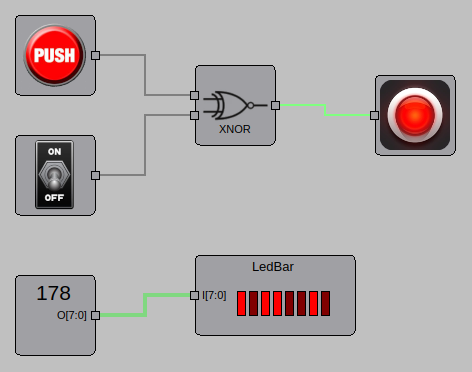
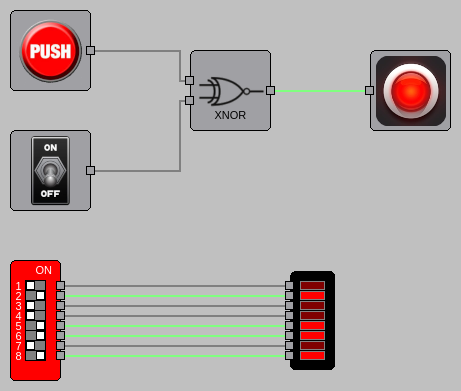
Make the LED bar a column with one input for each LED
The LED bar only took a bus, so it couldn't show single wires, and it
didn't line up with the DIP switch. Now its LEDs are next to their inputs,
as far apart as the switches, so they can be wired straight across.

Changed region(s): [[0.0, 0.0, 1.0, 0.5914], [0.0, 0.6505, 0.7592, 0.9758]]

diff --git a/src/digsim/app/gui_objects/_led_bar_object.py b/src/digsim/app/gui_objects/_led_bar_object.py
@@ -1,4 +1,4 @@
-# Copyright (c) Fredrik Andersson, 2023-2025
+# Copyright (c) Fredrik Andersson, 2023-2026
 # All rights reserved
 
 """A LED bar component placed in the GUI"""
@@ -21,16 +21,22 @@ if TYPE_CHECKING:
 
 
 class LedBarObject(ComponentObject):
-    """The class for a LED bar component placed in the GUI"""
+    """The class for a LED bar component placed in the GUI, drawn like a DIP switch"""
 
-    LED_WIDTH = 8
-    LED_HEIGHT = 24
-    LED_GAP = 4
+    SHOW_PORT_NAMES = False
+    LED_WIDTH = 24
+    LED_HEIGHT = 8
+    # From one LED to the next, and from one input to the next
+    LED_DISTANCE = 10
+    # The frame around the LEDs
+    FRAME = 10
+    # From the top to the first input, the frame and half an LED
+    BORDER_TO_PORT = FRAME + LED_HEIGHT // 2
 
     def __init__(
         self, app_model: AppModel, component: Component, xpos: float, ypos: float
     ) -> None:
-        super().__init__(app_model, component, xpos, ypos)
+        super().__init__(app_model, component, xpos, ypos, port_distance=self.LED_DISTANCE)
         self.update_size()
 
     @property
@@ -41,29 +47,41 @@ class LedBarObject(ComponentObject):
 
     def update_size(self) -> None:
         leds = len(self.component.lit())
-        self.width = 2 * self.inport_x_pos() + 40 + leds * (self.LED_WIDTH + self.LED_GAP)
+        self.width = self.LED_WIDTH + 2 * self.FRAME
+        self.height = (leds - 1) * self.LED_DISTANCE + 2 * self.BORDER_TO_PORT
         self.update_ports()
 
     def paint_component(self, painter: QPainter) -> None:
-        self.paint_component_base(painter)
-        self.paint_component_name(painter)
-        # Draw the most significant bit to the left
-        xpos = int(self.object_pos.x() + self.inport_x_pos() + 30)
-        ypos = int(self.object_pos.y() + self.height / 2 - self.LED_HEIGHT / 2 + 8)
-        for led_on in reversed(self.component.lit()):
+        self.paint_component_base(painter, color=Qt.GlobalColor.black)
+        # Each LED next to its input, LED 0 at the top
+        xpos = int(self.object_pos.x() + self.width / 2 - self.LED_WIDTH / 2)
+        ypos = int(self.object_pos.y() + self.BORDER_TO_PORT - self.LED_HEIGHT / 2)
+        for led_on in self.component.lit():
             self._paint_led(painter, xpos, ypos, led_on)
-            xpos += self.LED_WIDTH + self.LED_GAP
+            ypos += self.LED_DISTANCE
 
     @classmethod
     def _paint_led(cls, painter: QPainter, xpos: int, ypos: int, led_on: bool) -> None:
-        painter.setPen(Qt.GlobalColor.black)
+        painter.setPen(Qt.GlobalColor.darkGray)
         painter.setBrush(Qt.GlobalColor.red if led_on else Qt.GlobalColor.darkRed)
         painter.drawRect(xpos, ypos, cls.LED_WIDTH, cls.LED_HEIGHT)
 
     @classmethod
     def paint_selectable_component(cls, painter: QPainter, size: QSize, name: str) -> None:
-        xpos = (size.width() - 6 * (cls.LED_WIDTH + cls.LED_GAP)) // 2
-        for led_on in [True, False, True, True, False, False]:
-            cls._paint_led(painter, xpos, 20, led_on)
-            xpos += cls.LED_WIDTH + cls.LED_GAP
+        leds = [True, False, True, True, False, False]
+        xpos = (size.width() - cls.LED_WIDTH) // 2
+        ypos = (size.width() - len(leds) * cls.LED_DISTANCE) // 2
+        painter.setPen(Qt.GlobalColor.black)
+        painter.setBrush(Qt.GlobalColor.black)
+        painter.drawRoundedRect(
+            xpos - cls.FRAME,
+            ypos - cls.FRAME,
+            cls.LED_WIDTH + 2 * cls.FRAME,
+            (len(leds) - 1) * cls.LED_DISTANCE + cls.LED_HEIGHT + 2 * cls.FRAME,
+            5,
+            5,
+        )
+        for led_on in leds:
+            cls._paint_led(painter, xpos, ypos, led_on)
+            ypos += cls.LED_DISTANCE
         cls.paint_selectable_component_name(painter, QPoint(0, 0), size, name)

diff --git a/tests/test_led_bar.py b/tests/test_led_bar.py
@@ -1,4 +1,4 @@
-# Copyright (c) Fredrik Andersson, 2023-2025
+# Copyright (c) Fredrik Andersson, 2023-2026
 # All rights reserved
 
 """Pytest module to test the LED bar component"""
@@ -7,33 +7,43 @@ from digsim.circuit import Circuit
 from digsim.circuit.components import LedBar, StaticValue
 
 
-def test_led_bar_shows_bits():
-    """Each LED shows one bit of the input, bit 0 first"""
+def test_led_bar_has_an_input_for_each_led():
+    """The inputs are named by their LED, from 0"""
+    led_bar = LedBar(Circuit(), width=3)
+    assert [port.name() for port in led_bar.inports()] == ["0", "1", "2"]
+    assert all(port.width == 1 for port in led_bar.inports())
+
+
+def test_led_bar_shows_its_inputs():
+    """Each LED shows its input, LED 0 first"""
     circuit = Circuit()
-    value = StaticValue(circuit, width=4, value=0b1010)
-    led_bar = LedBar(circuit, width=4)
-    value.O.wire = led_bar.I
+    high = StaticValue(circuit, value=1)
+    low = StaticValue(circuit, value=0)
+    led_bar = LedBar(circuit, width=3)
+    high.O.wire = led_bar.port("1")
+    low.O.wire = led_bar.port("2")
     circuit.init()
     circuit.run(ms=1)
-    assert led_bar.lit() == [False, True, False, True]
+    assert led_bar.lit() == [False, True, False]
 
 
 def test_led_bar_unknown_input():
-    """All LEDs are off while the input is unknown"""
+    """An LED is off while its input is unknown"""
     circuit = Circuit()
     led_bar = LedBar(circuit, width=3)
     assert led_bar.lit() == [False, False, False]
 
 
 def test_led_bar_callback():
-    """The callback is called when the input changes"""
+    """The callback is called when an input changes"""
     changes = []
     circuit = Circuit()
     led_bar = LedBar(circuit, width=2)
     led_bar.set_callback(lambda component: changes.append(component.lit()))
-    led_bar.I.value = 3
-    led_bar.I.value = 1
-    assert changes == [[True, True], [True, False]]
+    led_bar.port("0").value = 1
+    led_bar.port("1").value = 1
+    led_bar.port("0").value = 0
+    assert changes == [[True, False], [True, True], [False, True]]
 
 
 def test_led_bar_saved_and_loaded(tmp_path):
@@ -44,3 +54,4 @@ def test_led_bar_saved_and_loaded(tmp_path):
     loaded = Circuit()
     loaded.from_json_file(tmp_path / "led_bar.json")
     assert loaded.get_component("bar").parameter_get("width") == 5
+    assert len(loaded.get_component("bar").inports()) == 5

diff --git a/src/digsim/circuit/components/_led_bar.py b/src/digsim/circuit/components/_led_bar.py
@@ -1,4 +1,4 @@
-# Copyright (c) Fredrik Andersson, 2023-2025
+# Copyright (c) Fredrik Andersson, 2023-2026
 # All rights reserved
 
 """Module with the LED bar component"""
@@ -16,10 +16,10 @@ if TYPE_CHECKING:
 
 class LedBar(CallbackComponent):
     """
-    A row of LEDs showing the bits of a bus.
+    A column of LEDs, with one input for each LED.
 
     Ports:
-        I: Input, `width` bits.
+        0, 1, ...: Inputs, one for each LED, numbered from 0.
 
     Args:
         circuit: The circuit to add the component to.
@@ -29,16 +29,13 @@ class LedBar(CallbackComponent):
 
     def __init__(self, circuit: Circuit, name: str | None = None, width: int = 8) -> None:
         super().__init__(circuit, name, callback=None)
-        self.add_port(PortIn(self, "I", width=width))
+        for bit in range(width):
+            self.add_port(PortIn(self, f"{bit}"))
         self.parameter_set("width", width)
 
     def lit(self) -> list[bool]:
-        """The state of each LED, bit 0 first"""
-        width = self.parameter_get("width")
-        value = self.I.value
-        if not isinstance(value, int):
-            return [False] * width
-        return [bool((value >> bit) & 1) for bit in range(width)]
+        """The state of each LED, LED 0 first"""
+        return [port.value == 1 for port in self.inports()]
 
     @classmethod
     def get_parameters(cls) -> dict[str, Parameter]:

diff --git a/docs/gui-components.md b/docs/gui-components.md
@@ -122,16 +122,22 @@ if TYPE_CHECKING:
 
 
 class LedBarObject(ComponentObject):
-    """The class for a LED bar component placed in the GUI"""
+    """The class for a LED bar component placed in the GUI, drawn like a DIP switch"""
 
-    LED_WIDTH = 8
-    LED_HEIGHT = 24
-    LED_GAP = 4
+    SHOW_PORT_NAMES = False
+    LED_WIDTH = 24
+    LED_HEIGHT = 8
+    # From one LED to the next, and from one input to the next
+    LED_DISTANCE = 10
+    # The frame around the LEDs
+    FRAME = 10
+    # From the top to the first input, the frame and half an LED
+    BORDER_TO_PORT = FRAME + LED_HEIGHT // 2
 
     def __init__(
         self, app_model: AppModel, component: Component, xpos: float, ypos: float
     ) -> None:
-        super().__init__(app_model, component, xpos, ypos)
+        super().__init__(app_model, component, xpos, ypos, port_distance=self.LED_DISTANCE)
         self.update_size()
 
     @property
@@ -142,37 +148,55 @@ class LedBarObject(ComponentObject):
 
     def update_size(self) -> None:
         leds = len(self.component.lit())
-        self.width = 2 * self.inport_x_pos() + 40 + leds * (self.LED_WIDTH + self.LED_GAP)
+        self.width = self.LED_WIDTH + 2 * self.FRAME
+        self.height = (leds - 1) * self.LED_DISTANCE + 2 * self.BORDER_TO_PORT
         self.update_ports()
 
     def paint_component(self, painter: QPainter) -> None:
-        self.paint_component_base(painter)
-        self.paint_component_name(painter)
-        # Draw the most significant bit to the left
-        xpos = int(self.object_pos.x() + self.inport_x_pos() + 30)
-        ypos = int(self.object_pos.y() + self.height / 2 - self.LED_HEIGHT / 2 + 8)
-        for led_on in reversed(self.component.lit()):
+        self.paint_component_base(painter, color=Qt.GlobalColor.black)
+        # Each LED next to its input, LED 0 at the top
+        xpos = int(self.object_pos.x() + self.width / 2 - self.LED_WIDTH / 2)
+        ypos = int(self.object_pos.y() + self.BORDER_TO_PORT - self.LED_HEIGHT / 2)
+        for led_on in self.component.lit():
             self._paint_led(painter, xpos, ypos, led_on)
-            xpos += self.LED_WIDTH + self.LED_GAP
+            ypos += self.LED_DISTANCE
 
     @classmethod
     def _paint_led(cls, painter: QPainter, xpos: int, ypos: int, led_on: bool) -> None:
-        painter.setPen(Qt.GlobalColor.black)
+        painter.setPen(Qt.GlobalColor.darkGray)
         painter.setBrush(Qt.GlobalColor.red if led_on else Qt.GlobalColor.darkRed)
         painter.drawRect(xpos, ypos, cls.LED_WIDTH, cls.LED_HEIGHT)
 
     @classmethod
     def paint_selectable_component(cls, painter: QPainter, size: QSize, name: str) -> None:
-        xpos = (size.width() - 6 * (cls.LED_WIDTH + cls.LED_GAP)) // 2
-        for led_on in [True, False, True, True, False, False]:
-            cls._paint_led(painter, xpos, 20, led_on)
-            xpos += cls.LED_WIDTH + cls.LED_GAP
+        leds = [True, False, True, True, False, False]
+        xpos = (size.width() - cls.LED_WIDTH) // 2
+        ypos = (size.width() - len(leds) * cls.LED_DISTANCE) // 2
+        painter.setPen(Qt.GlobalColor.black)
+        painter.setBrush(Qt.GlobalColor.black)
+        painter.drawRoundedRect(
+            xpos - cls.FRAME,
+            ypos - cls.FRAME,
+            cls.LED_WIDTH + 2 * cls.FRAME,
+            (len(leds) - 1) * cls.LED_DISTANCE + cls.LED_HEIGHT + 2 * cls.FRAME,
+            5,
+            5,
+        )
+        for led_on in leds:
+            cls._paint_led(painter, xpos, ypos, led_on)
+            ypos += cls.LED_DISTANCE
         cls.paint_selectable_component_name(painter, QPoint(0, 0), size, name)
 ```
 
+Each LED is next to its input: `port_distance` sets the distance from one port to the
+next, and `BORDER_TO_PORT` the distance from the top of the box to the first port (25
+pixels in `ComponentObject`). The LEDs are drawn at the same places, in a frame of
+`FRAME` pixels. `SHOW_PORT_NAMES = False` leaves out the port names, as on the DIP
+switch.
+
 | Method | Purpose |
 | --- | --- |
-| `paint_component(painter)` | Draws the placed component with a `QPainter`. `paint_component_base()` draws the standard rounded box, `paint_component_name()` the name. The box is `self.rect()`, positioned at `self.object_pos`. |
+| `paint_component(painter)` | Draws the placed component with a `QPainter`. `paint_component_base()` draws the standard rounded box, gray or in the color it is given, `paint_component_name()` the name. The box is `self.rect()`, positioned at `self.object_pos`. |
 | `paint_selectable_component(painter, size, name)` | A class method that draws the component's icon in the component selector, in a `size` sized area. |
 | `update_size()` | Called when the component's settings change. Set `self.width` and `self.height`, then call `update_ports()` to move the ports. |
 | `component` | Override it to return the component's own type, so type checkers know its methods. |

diff --git a/docs/components.md b/docs/components.md
@@ -4,7 +4,7 @@ This guide shows how to write your own component for [Python circuits](python.md
 step, using two examples:
 
 - **`XNOR`**, a logic gate, high when its inputs are equal.
-- **`LedBar`**, a row of LEDs that shows the bits of a bus.
+- **`LedBar`**, a column of LEDs, with one input for each LED.
 
 !!! info
     Both components are part of DigSim, so you can read the finished code:
@@ -158,10 +158,10 @@ from digsim.circuit.components.atoms import CallbackComponent, PortIn
 
 class LedBar(CallbackComponent):
     """
-    A row of LEDs showing the bits of a bus.
+    A column of LEDs, with one input for each LED.
 
     Ports:
-        I: Input, `width` bits.
+        0, 1, ...: Inputs, one for each LED, numbered from 0.
 
     Args:
         circuit: The circuit to add the component to.
@@ -171,16 +171,13 @@ class LedBar(CallbackComponent):
 
     def __init__(self, circuit, name=None, width=8):
         super().__init__(circuit, name, callback=None)
-        self.add_port(PortIn(self, "I", width=width))
+        for bit in range(width):
+            self.add_port(PortIn(self, f"{bit}"))
         self.parameter_set("width", width)
 
     def lit(self):
-        """The state of each LED, bit 0 first"""
-        width = self.parameter_get("width")
-        value = self.I.value
-        if value == "X":
-            return [False] * width
-        return [bool((value >> bit) & 1) for bit in range(width)]
+        """The state of each LED, LED 0 first"""
+        return [port.value == 1 for port in self.inports()]
 
     @classmethod
     def get_parameters(cls):
@@ -201,7 +198,9 @@ class LedBar(CallbackComponent):
     them as keyword arguments: `LedBar(circuit=circuit, width=8)`.
 
 `LedBar` is a `CallbackComponent`. It doesn't compute anything, but the callback lets a
-user of the component, and the GUI, know when its input has changed.
+user of the component, and the GUI, know when one of its inputs has changed. The inputs
+are named `"0"`, `"1"` and so on, which aren't Python names, so they are reached with
+`port()`: `led_bar.port("0")`.
 
 The docstring describes the component's ports under `Ports:` and its arguments under
 `Args:`. For the components in DigSim, the [API Reference](api/components.md) is generated

diff --git a/CHANGELOG.md b/CHANGELOG.md
@@ -1,6 +1,7 @@
 # CHANGELOG
 
 ## vx.x.x
+ - The LED bar is a column of LEDs drawn like the DIP switch, with one input for each LED instead of a bus input, so it can be wired straight to a DIP switch. A LED bar in a circuit file from before loses its wire.
  - GUI: a Verilog editor, Edit Verilog... in the context menu of a Yosys component. It colors Verilog like Emacs verilog-mode, and has line numbers, find and replace, go to line, indenting and commenting out lines. It notices when the file changes on disk.
  - GUI: Synthesize (Ctrl+B) in the Verilog editor saves and synthesizes the file in the background, shows each step, the errors and warnings on their lines and the Yosys log, and updates the components of the file. Closing the editor offers to synthesize the saved file when its components were not updated with it.
  - GUI: Format (Ctrl+Shift+I) in the Verilog editor indents the file with the Verilog formatter

diff --git a/docs/gui.md b/docs/gui.md
@@ -251,7 +251,7 @@ presses the button or toggles the switch.
 | Component | Description |
 | --- | --- |
 | ![LED](images/components/LED_ON.png) | **LED**: lights up when driven by a logic high. |
-| ![LED bar](images/components/LedBar.png) | **LED Bar**: a row of 1–16 LEDs showing the bits of a bus, the most significant bit to the left. |
+| ![LED bar](images/components/LedBar.png) | **LED Bar**: a column of 1–16 LEDs, each with an input of its own, LED 0 at the top. It fits next to a DIP switch. |
 | ![Hex digit](images/HexDigit.png) | **Hex Digit**: shows a bus value in hexadecimal, with 1–8 digits (4 bits each) and an optional decimal point. |
 | ![7-segment](images/SevenSegment.png) | **7-Segment Display**: like a hex digit, but each segment is controlled individually. |
 | ![Buzzer](images/components/Buzzer.png) | **Buzzer**: plays a tone, with a selectable note, when its input is high. |
